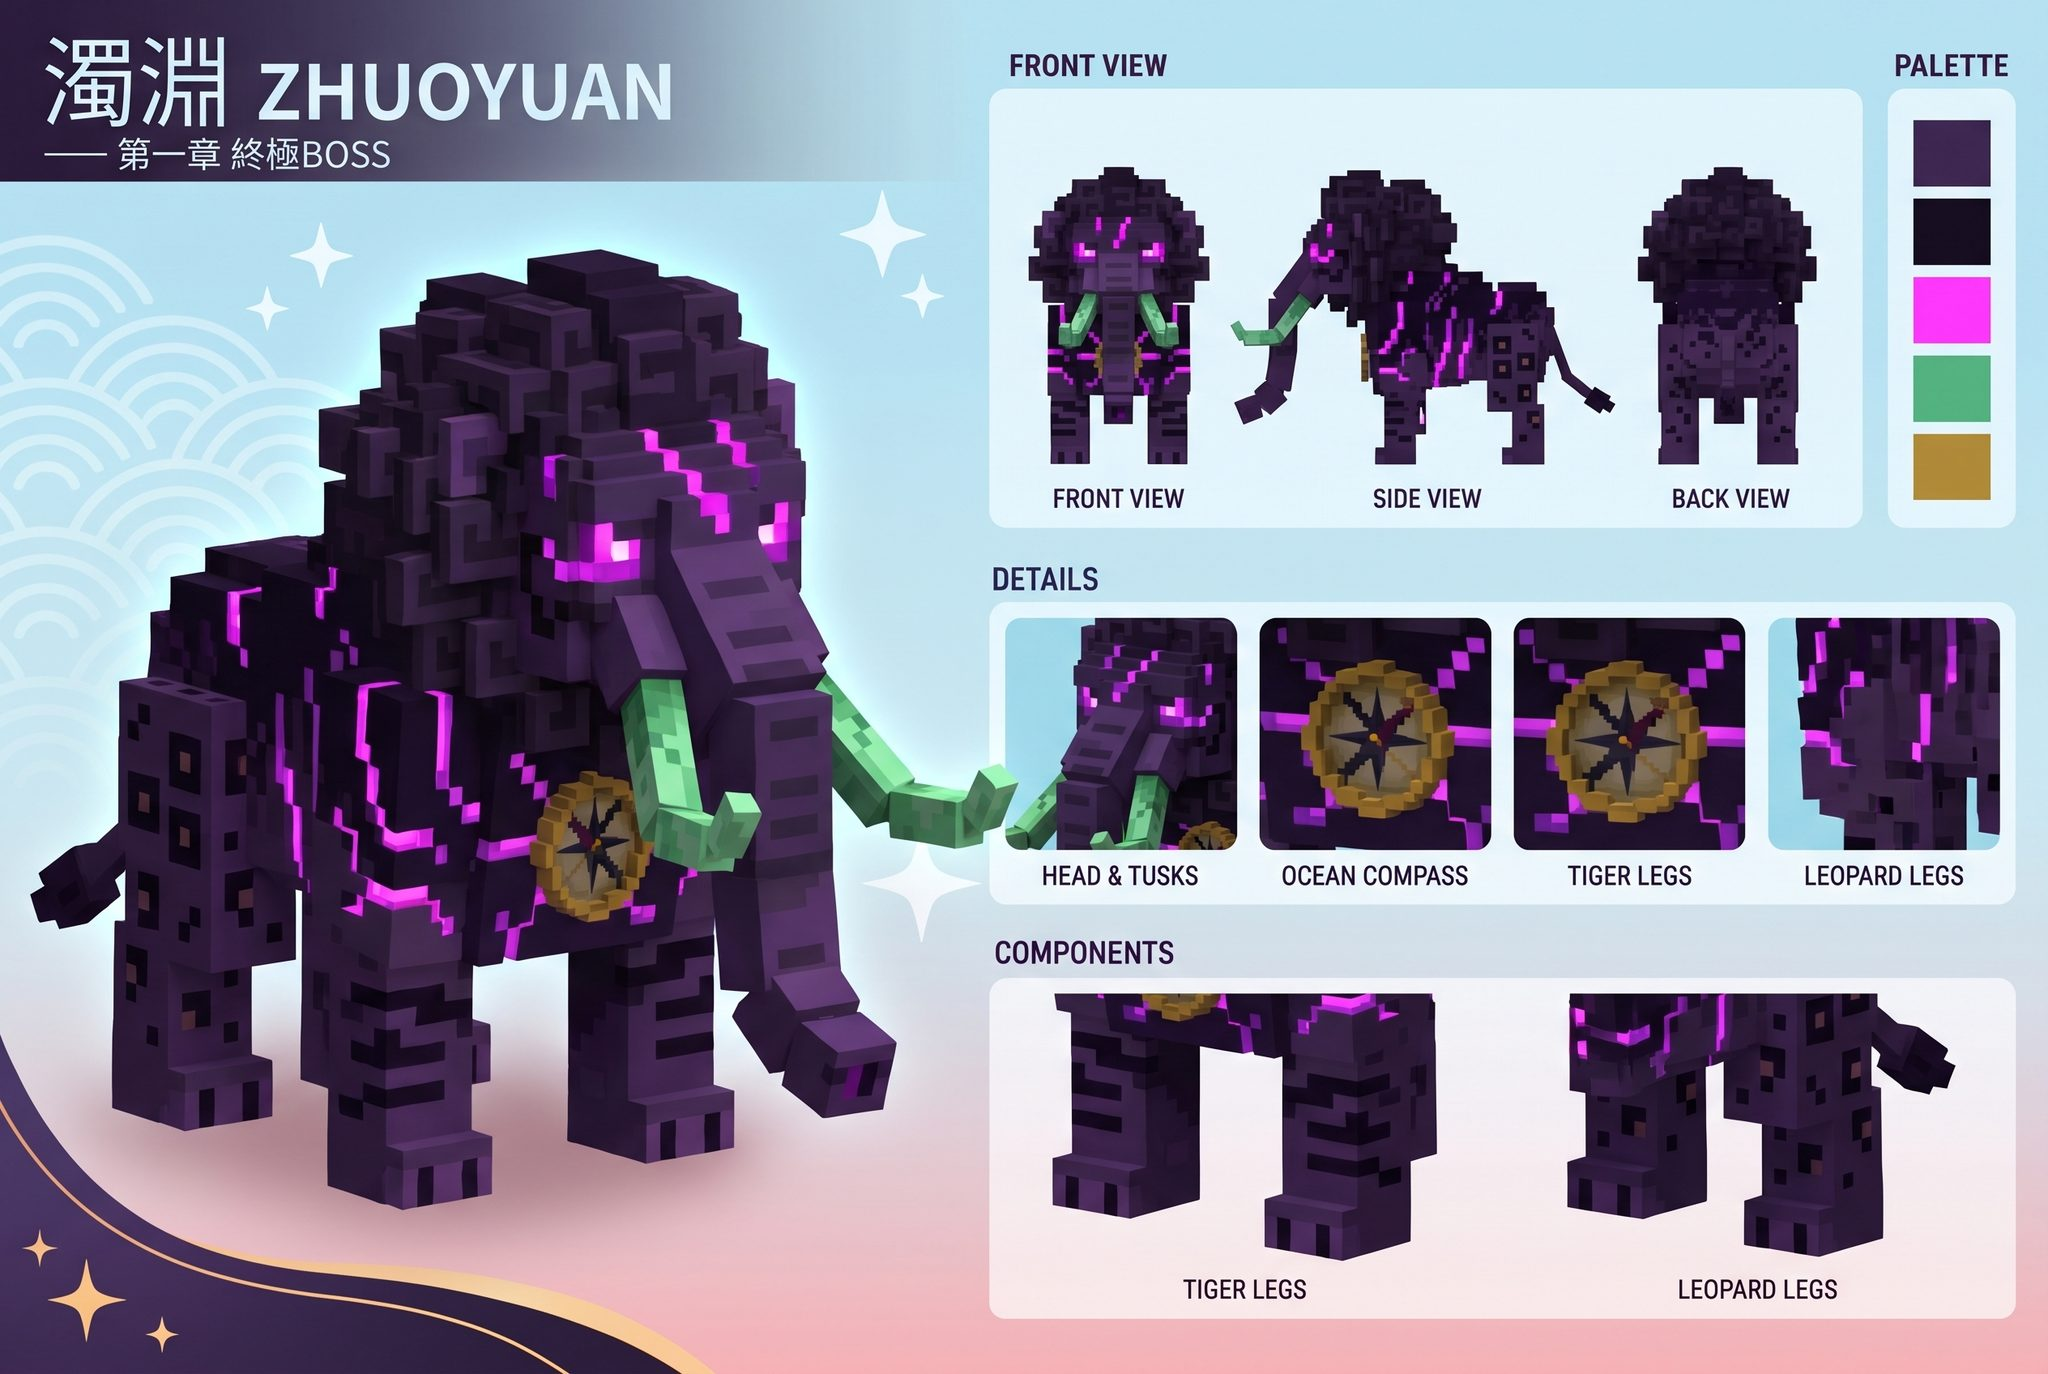
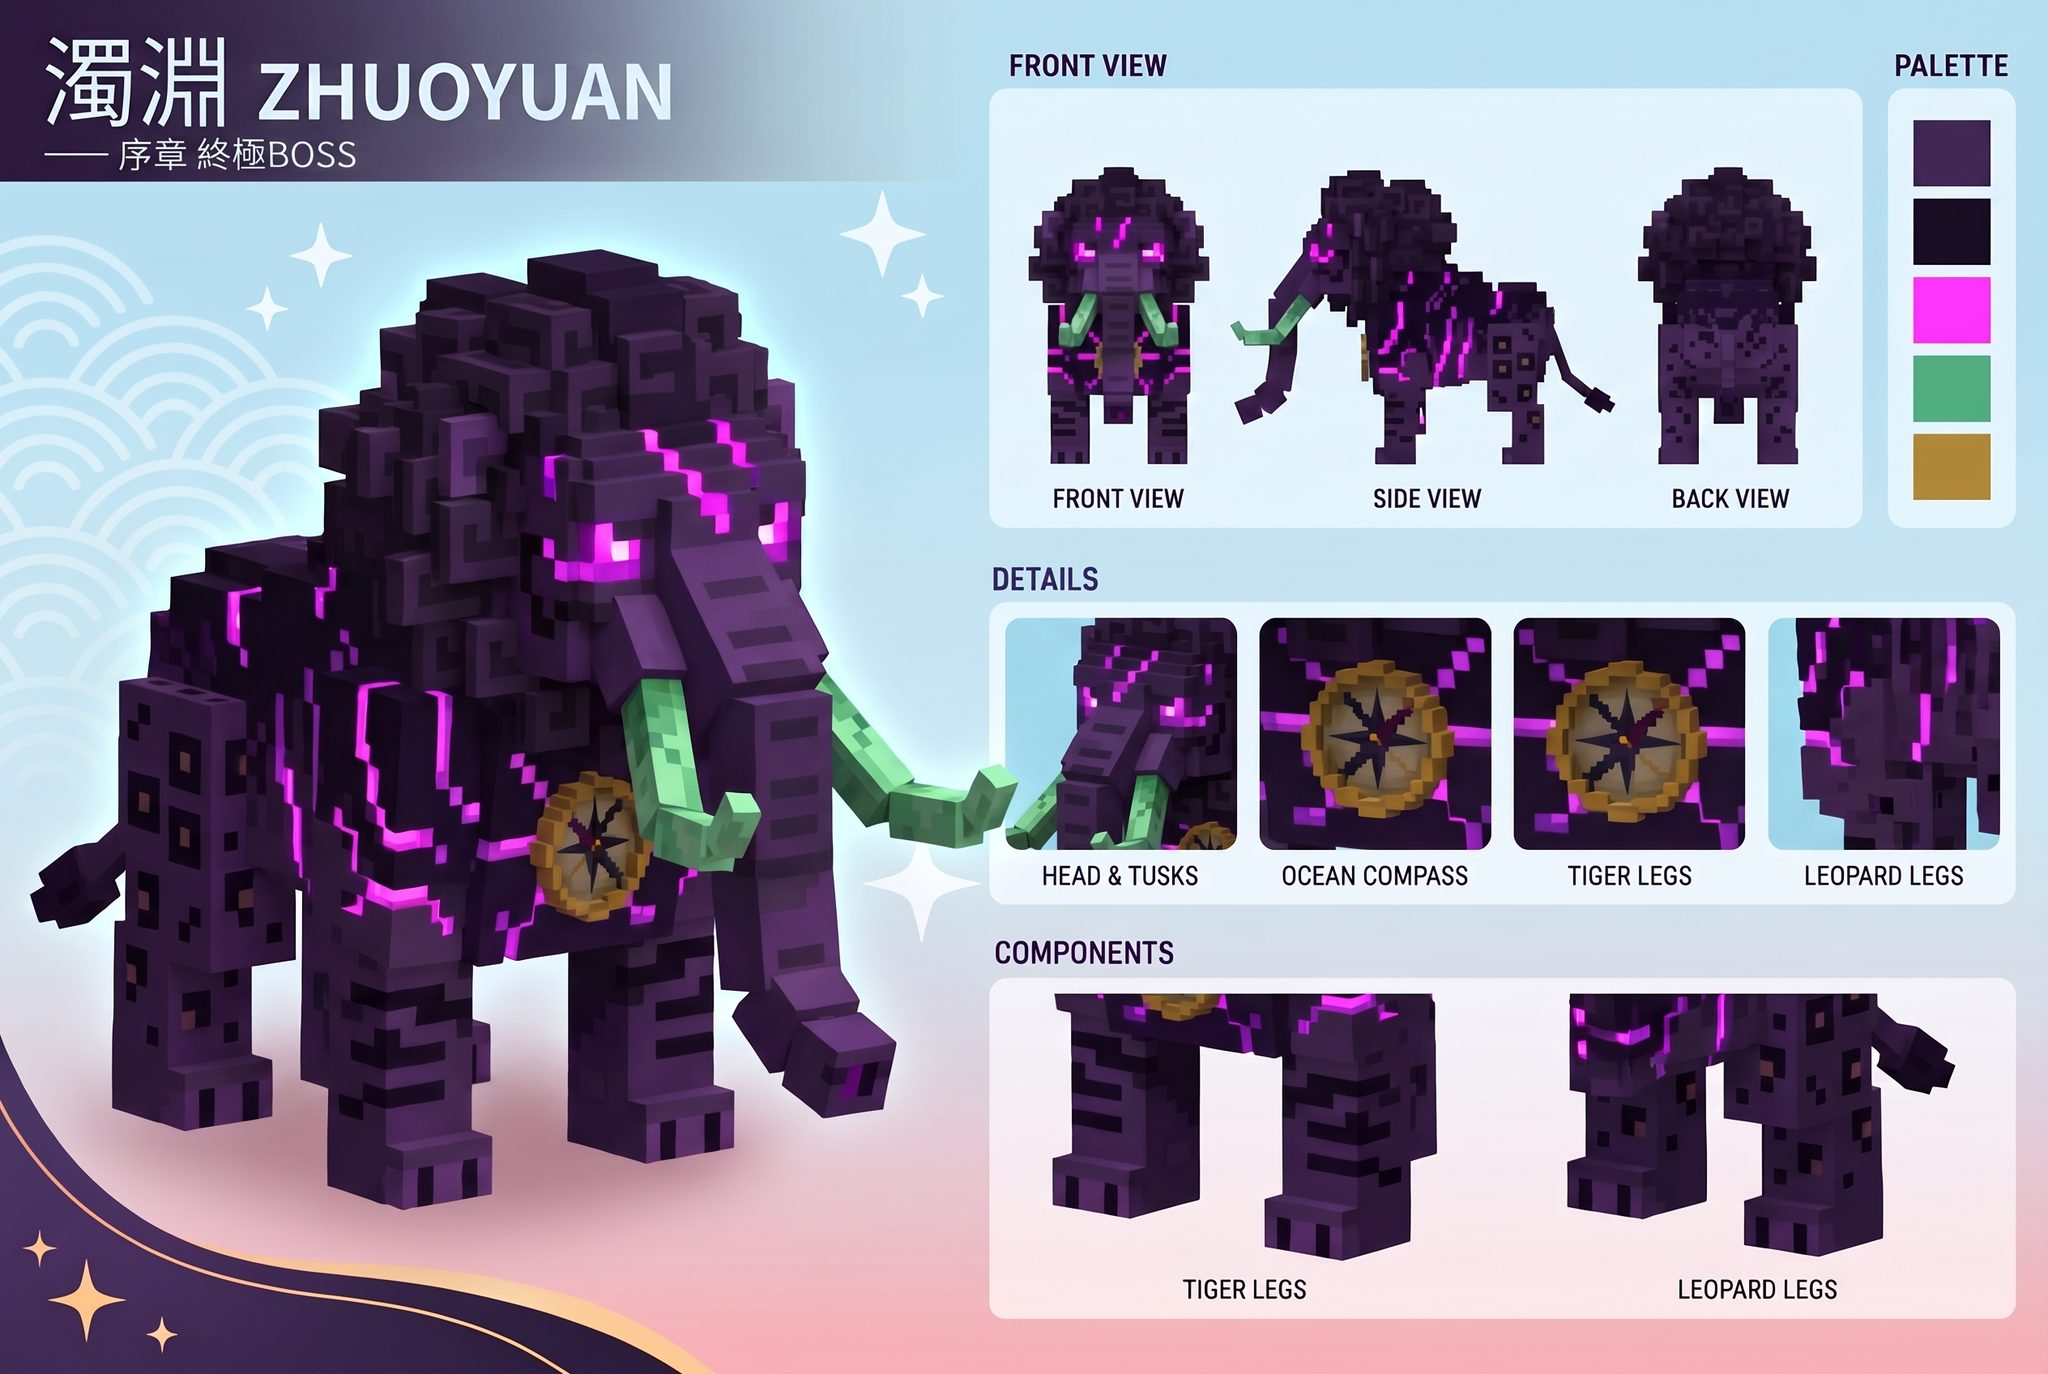
v1.12.4: landscape X checks, vein lights fade, sudoku/sigil progress fix, Prologue boss naming and coming-soon ending
Claude-Session: https://claude.ai/code/session_01YVWVqqZtuzgCy1jEwmG7SA

Changed region(s): [[0.0625, 0.0917, 0.1875, 0.1223], [0.6562, 0.2445, 0.7188, 0.2751], [0.5, 0.0306, 0.5312, 0.0611]]

diff --git a/index.html b/index.html
@@ -472,6 +472,7 @@ body:has(#dialog.show) #hud>*{opacity:0!important;pointer-events:none!important;
 .screen h1{margin:0;font-size:clamp(56px,18vw,120px);font-weight:900;letter-spacing:.12em;line-height:1;text-shadow:0 4px 24px rgba(111,227,255,.35)}
 .screen .en{font-size:13px;letter-spacing:.4em;color:var(--cyan);font-weight:500}
 .screen .tag{font-size:15px;color:#d8e6f2;font-weight:500;max-width:22em;line-height:1.7}
+#ending .soon{font-size:18px;font-weight:900;color:var(--gold);letter-spacing:.06em;padding:10px 20px;border-radius:999px;background:rgba(255,207,90,.12);border:1px solid rgba(255,207,90,.4)}
 /* 按鈕：和影片「略過」同一套半透明毛玻璃樣式；主按鈕較大、邊框較亮 */
 .ver{position:absolute;left:0;right:0;bottom:calc(14px + var(--sb));font-size:12px;font-weight:500;color:rgba(255,255,255,.35);letter-spacing:.06em;font-variant-numeric:tabular-nums}
 .start{margin-top:10px;font-size:20px;font-weight:900;padding:15px 48px;border-radius:999px;color:#fff;letter-spacing:.12em;
@@ -496,6 +497,7 @@ body:has(#dialog.show) #hud>*{opacity:0!important;pointer-events:none!important;
   #toast,#pop{left:calc(50% + min(170px,22vw));max-width:calc(100vw - min(380px,48vw))}
   #radar.show{display:grid;grid-template-columns:auto minmax(0,1fr);grid-auto-rows:min-content;column-gap:20px;align-items:start;justify-items:stretch}
   #radar>*{grid-column:2;width:100%}
+  #radar>:not(header):not(.rwrap){padding-right:52px}
   #radar .rwrap{grid-column:1;grid-row:1/span 6;position:sticky;top:0;width:min(calc(100dvh - 96px - var(--st) - var(--sb)),46vw)}
   #radar header{width:100%}
   #radar .rbar{flex-wrap:wrap}
@@ -517,6 +519,9 @@ body:has(#dialog.show) #hud>*{opacity:0!important;pointer-events:none!important;
 #battle .msg{position:absolute;left:50%;top:50%;transform:translate(-50%,-50%);width:min(340px,calc(100vw - 32px));background:rgba(14,24,40,.8);border:1px solid rgba(255,255,255,.16);border-radius:22px;
   padding:24px 20px;text-align:center;display:none;backdrop-filter:blur(18px);-webkit-backdrop-filter:blur(18px);box-shadow:0 12px 40px rgba(0,0,0,.35)}
 #battle .msg.show{display:block}
+/* 說明框不超出畫面：太長就在框裡捲；橫向放寬，行數少一點 */
+#battle .msg{max-height:calc(100dvh - 24px - var(--st) - var(--sb));overflow-y:auto;overscroll-behavior:contain}
+@media (orientation:landscape) and (max-height:600px){#battle .msg{width:min(560px,calc(100vw - 32px));padding-top:16px;padding-bottom:16px}#battle .msg h3{margin-bottom:8px}#battle .msg p{margin-bottom:14px;line-height:1.6}}
 #battle .msg h3{margin:0 0 12px;color:var(--gold);font-size:21px;letter-spacing:.06em}
 #battle .msg p{margin:0 0 20px;font-size:16px;line-height:1.75;text-align:left;font-weight:500;white-space:pre-line;color:#dbe6f0}
 #battle .msg button{background:rgba(255,255,255,.18);border:1.5px solid rgba(255,255,255,.45);color:#fff;border-radius:999px;padding:12px 30px;font-weight:900;font-size:17px;-webkit-backdrop-filter:blur(10px);backdrop-filter:blur(10px)}
@@ -631,10 +636,11 @@ body:has(#dialog.show) #hud>*{opacity:0!important;pointer-events:none!important;
   <h2 data-i18n="endTitle">城市本身，也存在流。</h2>
   <div class="logo" data-i18n="title">洋流：起源</div>
   <div class="tag" data-i18n="endTag">走出去，遇見你的機緣。</div>
+  <div class="soon" data-i18n="endSoon">序章完成。第一章・流域，敬請期待。</div>
   <div id="stats"></div>
   <button class="film-btn" data-i18n="watchFilm">▶ 觀看介紹影片</button>
   <div class="langs"></div>
-  <button class="start" id="again" data-i18n="again">再走一次</button>
+  <button class="start" id="again" data-i18n="again">重新體驗序章</button>
 </div>
 <div id="film"><video playsinline preload="none"></video>
   <button class="sound" data-i18n="tapSound">🔊 點一下開聲音</button>

diff --git a/src/i18n.js b/src/i18n.js
@@ -151,7 +151,8 @@ const S = {
     '現地探索は位置情報を使い、ハッカソン会場（北平東路30号）から出発します<br>位置情報がない場合は自動でシミュレーションに切り替え・音声オン推奨<br>PC：WASD で移動、スペースでジャンプ、E で感知'],
   endTitle: ['城市本身，也存在流。', 'The city itself has its own flow.', '都市そのものにも、流れがある。'],
   endTag: ['走出去，遇見你的機緣。', 'Go outside and meet your encounters.', '外へ出て、あなたの縁に出会おう。'],
-  again: ['再走一次', 'Walk again', 'もう一度歩く'],
+  again: ['重新體驗序章', 'Replay the Prologue', '序章をもう一度'],
+  endSoon: ['序章完成。第一章・流域，敬請期待。', 'Prologue complete. Chapter One: Watershed, coming soon.', '序章クリア。第一章「流域」、お楽しみに。'],
   watchFilm: ['▶ 觀看介紹影片', '▶ Watch the intro film', '▶ 紹介映像を見る'],
   skip: ['略過 ▸', 'Skip ▸', 'スキップ ▸'],
   tapSound: ['🔊 點一下開聲音', '🔊 Tap for sound', '🔊 タップで音声オン'],
@@ -239,10 +240,10 @@ const S = {
   wildLose: ['被濁影打退了，靈光 −{n}', 'The shade drove you back. Spirit Light −{n}', '濁影に押し返された。霊光 −{n}'],
   wildLose0: ['被濁影打退了，還好身上沒有靈光可以搶', 'The shade drove you back, but you had no Spirit Light to lose', '濁影に押し返された。霊光がなくて助かった'],
   taleLater: ['你走到了{name}：這裡藏著一個城市故事，先開完四獸靈門它才會浮現', 'You reached {name}: a city story is hidden here. Open the four beast gates first and it will appear', '{name}に着いた：ここには街の物語が眠っている。四獣の霊門を開けば現れる'],
-  // 第一章終極 BOSS：濁淵
+  // 序章終極 BOSS：濁淵（打完進入第一章）
   beast_boss: ['濁淵', 'Zhuoyuan', '濁淵'],
-  bossTitle: ['終極 BOSS・{name}', 'Final Boss · {name}', '最終ボス・{name}'],
-  bossTip: ['濁淵吞下了四獸的影子，擋在台北靈門前。\n四關連戰：數獨、連點、畫符、三消，難度全開。\n要一次打完；中途輸了或離開，身上的靈光會全部被吸走。', 'Zhuoyuan swallowed the shadows of the four beasts and now blocks the Taipei Spirit Gate.\nFour rounds in a row: sudoku, tap, sigil, match-3, at full difficulty.\nClear them in one go. Lose or leave midway and it drains all your spirit light.', '濁淵は四獣の影を飲みこみ、台北霊門の前に立ちはだかる。\n四連戦：数独、連打、符描き、三消し。難易度は最大。\n一度で勝ち抜くこと。途中で負けたり離れたりすると、霊光をすべて吸い取られる。'],
+  bossTitle: ['序章 BOSS・{name}', 'Prologue Boss · {name}', '序章ボス・{name}'],
+  bossTip: ['四關連戰：數獨、連點、畫符、三消，要一次打完。\n輸了或離開，靈光會全部被吸走。', 'Four rounds in a row: sudoku, tap, sigil, match-3. Clear them in one go.\nLose or leave and all your spirit light is drained.', '四連戦：数独・連打・符描き・三消し。一度で勝ち抜こう。\n負けたり離れたりすると、霊光をすべて吸い取られる。'],
   bossPhase: ['第 {n}/{m} 關', 'Round {n}/{m}', '第 {n}/{m} 戦'],
   bossNext: ['第 {n} 關淨化！濁淵還沒倒下', 'Round {n} purified! Zhuoyuan still stands', '第 {n} 戦 浄化！濁淵はまだ倒れない'],
   bossLoseTip: ['濁淵吸走了你所有的靈光。重新收集之後，再回來挑戰。', 'Zhuoyuan drained all your spirit light. Gather more and come back.', '濁淵に霊光をすべて吸い取られた。集め直して、また挑もう。'],

diff --git a/src/battle.js b/src/battle.js
@@ -57,7 +57,7 @@ export function battle(node, lv = 0, realm = '') {
     loadMe();
     start(node, lv, resolve); quitB.setAttribute('aria-label', t('battleQuit'));
     const make = gameOf(node);
-    const note = lv ? '\n' + t('realmPower', { realm, p: lv * 20 }) : '';
+    const note = lv && make.key !== 'sudoku' && make.key !== 'sigil' ? '\n' + t('realmPower', { realm, p: lv * 20 }) : '';
     if (node.boss) showMsg(t('bossTitle', { name: node.name }), t('bossTip') + note + '\n\n' + t('bossPhase', { n: 1, m: BOSS_PHASES.length }) + '\n' + t('how_' + make.key), t('battleGo'), () => { S.run = true; });
     else if (node.wild) showMsg(t('wildTitle', { name: node.name }), t('wildTip') + note + '\n' + t('how_' + make.key), t('battleGo'), () => { S.run = true; });
     else showMsg(SPR[node.id] ? t('battleBeast', { beast: t('beast_' + node.id) }) : t('battleTitle', { name: node.name }), t('battleTip_' + node.id) + note + '\n' + t('how_' + make.key), t('battleGo'), () => { S.run = true; });
@@ -87,7 +87,8 @@ const api = {
   get time() { return S.t; },
   get pur() { return S.pur; },
   node: () => S.node,
-  add(n) { S.pur += n * (1 + 0.2 * S.lv); },
+  // raw：數獨、畫符這種「做完才算完」的玩法不吃境界加成，不然會還沒解完就結束
+  add(n, raw) { S.pur += raw ? n : n * (1 + 0.2 * S.lv); },
   info(s) { hpEl.textContent = s; },
   shoot(x, y, col) { S.shots.push({ x, y, x0: x, y0: y, t: 0, d: 0.35 + Math.random() * 0.2, col }); },
   burst(x, y, col, n = 14, sp = 160) {
@@ -313,4 +314,4 @@ function drawBeast(L, spr, p, win, T) {
   g.save(); g.translate(cx, cy + sz * 0.5); g.scale(1 + wob * 0.12, 1 - wob * 0.12); g.drawImage(tint, -sz / 2, -sz, sz, sz); g.restore();
 }
 // 測試用：在主控台把這一關直接淨化滿
-window.__battle = { fill() { if (S && S.run) S.pur = 100; } };
+window.__battle = { fill() { if (S && S.run) S.pur = 100; }, game: () => S && S.game, pur: () => S && S.pur };

diff --git a/src/lore.js b/src/lore.js
@@ -136,7 +136,7 @@ const CAST = [
     epi: ['山霧散去時，鐘聲就從牠胸前響起。', 'When the mountain mist lifts, the bell rings from its chest.', '山霧が晴れると、その胸から鐘が鳴る。'],
     text: ['台灣黑熊，胸前有白色的 V 字月牙，守著玉山的鐘。\n山之鐘聲被濁流擋住時，要用數獨找回山的記憶。', 'A Formosan black bear with a white V crescent on its chest, guarding the bell of Yushan.\nWhen the Murk blocks the Bell of the Mountain, solve sudoku to recover the mountain\'s memory.', '胸に白いV字の月の輪がある台湾黒熊。玉山の鐘を守る。\n山の鐘が濁流にふさがれたら、数独で山の記憶を取り戻す。'] },
   { id: 'boss', img: 'img/beasts/boss.png', board: 'boss', beast: 1,
-    kick: ['第一章・終極 BOSS', 'Chapter One · Final Boss', '第一章・最終ボス'], name: ['濁淵', 'Zhuoyuan', '濁淵'], sub: ['濁流之淵', 'Abyss of the Murk', '濁流の淵'],
+    kick: ['序章・終極 BOSS', 'Prologue · Final Boss', '序章・最終ボス'], name: ['濁淵', 'Zhuoyuan', '濁淵'], sub: ['濁流之淵', 'Abyss of the Murk', '濁流の淵'],
     epi: ['四獸的影子被吞進同一個深淵。', 'Four beasts\' shadows, swallowed into one abyss.', '四獣の影が、ひとつの深淵に飲みこまれた。'],
     text: ['濁流把四獸的影子揉成一頭巨獸，擋在台北靈門前。\n四關連戰要一次打完，輸了會被吸光所有靈光。', 'The Murk kneaded the four beasts\' shadows into one giant that blocks the Taipei Spirit Gate.\nClear four rounds in one go, or lose all your spirit light.', '濁流が四獣の影をこねた巨獣。台北霊門の前に立ちはだかる。\n四連戦を一度で勝ち抜け。負ければ霊光をすべて失う。'] },
 ];

diff --git a/src/main.js b/src/main.js
@@ -778,7 +778,8 @@ function buildVein(n) {
     const y = Math.max(ground(x, z), WATER) + 0.02;
     b.box(x - 0.2, y, z - 0.2, 0.4, 0.12, 0.4, hex('#ffd98a'), 1);
   }
-  n.vein = r.mesh(b);
+  // 開門時亮一下、連到台北靈門，幾秒後就收起來，不留在地上
+  n.vein = r.mesh(b); n.veinEnd = G.t + 6;
 }
 
 function updateWilds(dt) {
@@ -1405,6 +1406,7 @@ function frame(dt) {
       M.rotX(mb, Math.sin(G.t * (n.awake ? 3 : 0.8)) * (n.awake ? 0.25 * Math.max(0.2, n.flash) : 0.05) + n.charge * Math.sin(G.t * 9) * 0.15);
       r.draw(bell, mb, n.awake ? [1.15, 1.05, 0.85] : [1, 1, 1], n.awake ? 0.35 : 0);
     }
+    if (n.vein && G.t > n.veinEnd) n.vein = null;
     if (n.vein) r.draw(n.vein, I, [1, 1, 1], 0.6 + 0.4 * Math.sin(G.t * 3));
   }
   if (s > 0.01) { const m = M.ident(); M.translate(m, 0, -(1 - smooth(0, 0.6, s)) * 50, 0); r.draw(floats, m, [1, 1, 1], 0.05); }
@@ -1531,4 +1533,4 @@ if (params.has('play') || params.has('at') || params.has('awake') || params.has(
     setTimeout(() => { pop(t('demoSet', { stage: t('demoStage')[cur - 1] }), 'gold'); setTimeout(() => toast(cur === 3 ? t('stage2Open', { realm: REALMS[REQ] }) : t('talesOpen')), 2200); }, 600);
   }
 }
-window.__game = { GATE, wilds, showCard, openGuide, cam, fight, gainXiu, G, P, cam, NODES, motes, input, awaken, doSense, SPOTS, geo, REAL, openRadar, encounter };
+window.__game = { ending, GATE, wilds, showCard, openGuide, cam, fight, gainXiu, G, P, cam, NODES, motes, input, awaken, doSense, SPOTS, geo, REAL, openRadar, encounter };

diff --git a/src/games/sudoku.js b/src/games/sudoku.js
@@ -50,7 +50,7 @@ export function sudoku(A, { star, ease }) {
     if (fits) {
       grid[i] = k; S.pop.set(i, 1);
       const [x, y] = center(i); A.shoot(x, y, A.TILE[k][0]); A.burst(x, y, A.TILE[k][0], 10, 140);
-      A.add(gain); A.sfx.hit(N * N - grid.filter(v => v < 0).length); A.buzz(12);
+      A.add(gain, true); A.sfx.hit(N * N - grid.filter(v => v < 0).length); A.buzz(12);
       // 自動跳到下一個空格
       const nx = [...Array(N * N).keys()].map(j => (i + 1 + j) % (N * N)).find(j => grid[j] < 0);
       S.sel = nx ?? -1;

diff --git a/src/games/sigil.js b/src/games/sigil.js
@@ -39,7 +39,7 @@ export function sigil(A, { star, ease }) {
   function complete() {
     const p = pts();
     for (const [x, y] of p) A.shoot(x, y, '#ffcf5a');
-    A.add(100 / NUM); S.done = 0.7; A.burst(p[0][0], p[0][1], '#ffcf5a', 30, 220); A.sfx.purify();
+    A.add(100 / NUM, true); S.done = 0.7; A.burst(p[0][0], p[0][1], '#ffcf5a', 30, 220); A.sfx.purify();
     S.k++; S.drawing = false; S.trail = [];
     if (S.k < NUM) { S.rune = order[S.k]; S.next = 0; }
   }

diff --git a/src/version.js b/src/version.js
@@ -1,2 +1,2 @@
 // 對外顯示的版本號（語意版本）：大改版動第一位、新功能動第二位、修正動第三位
-export const VERSION = '1.12.3';
+export const VERSION = '1.12.4';
